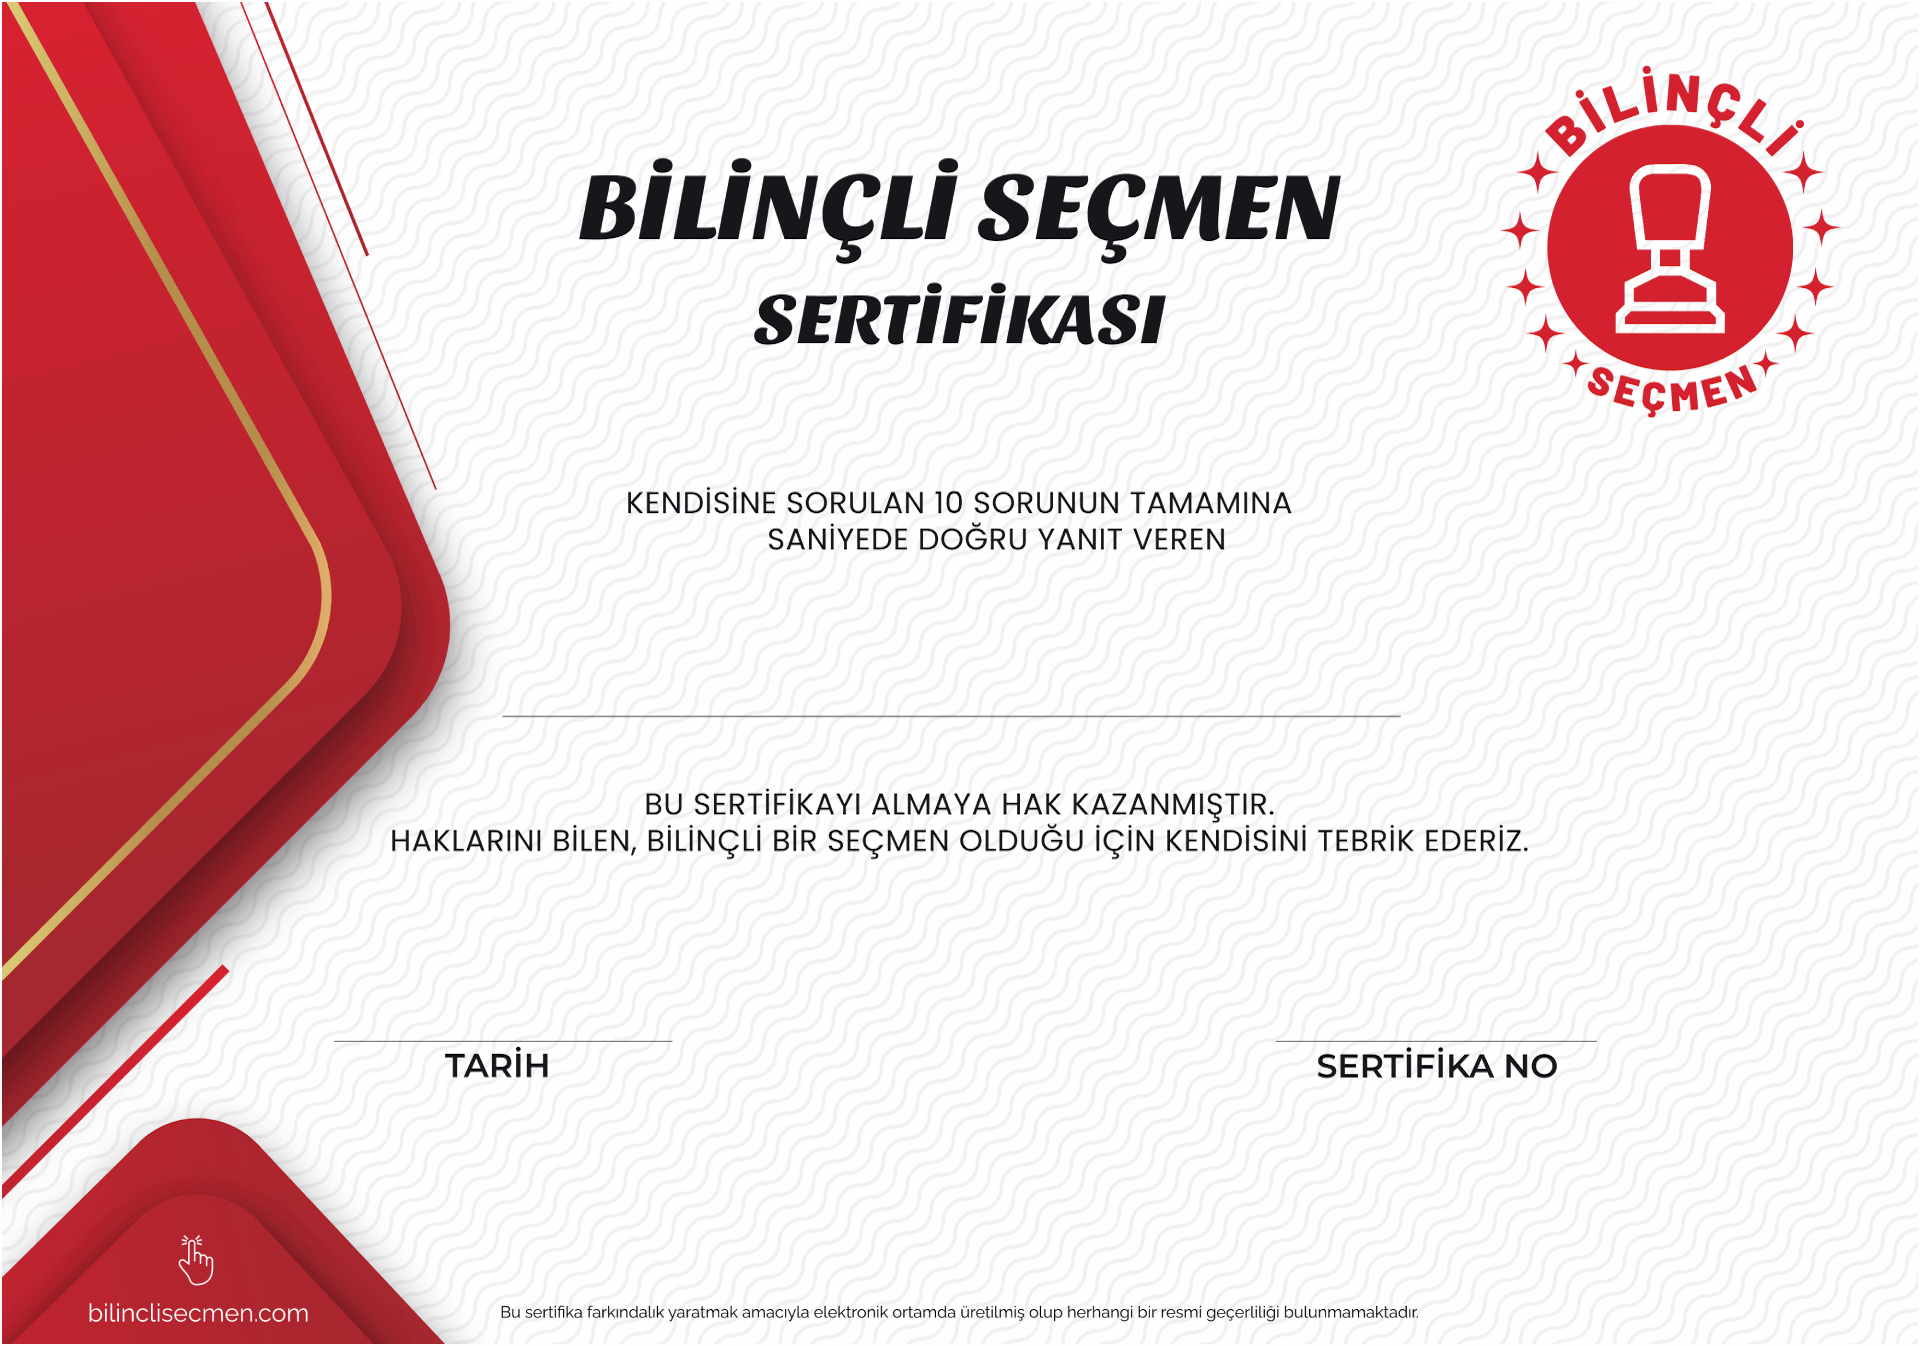
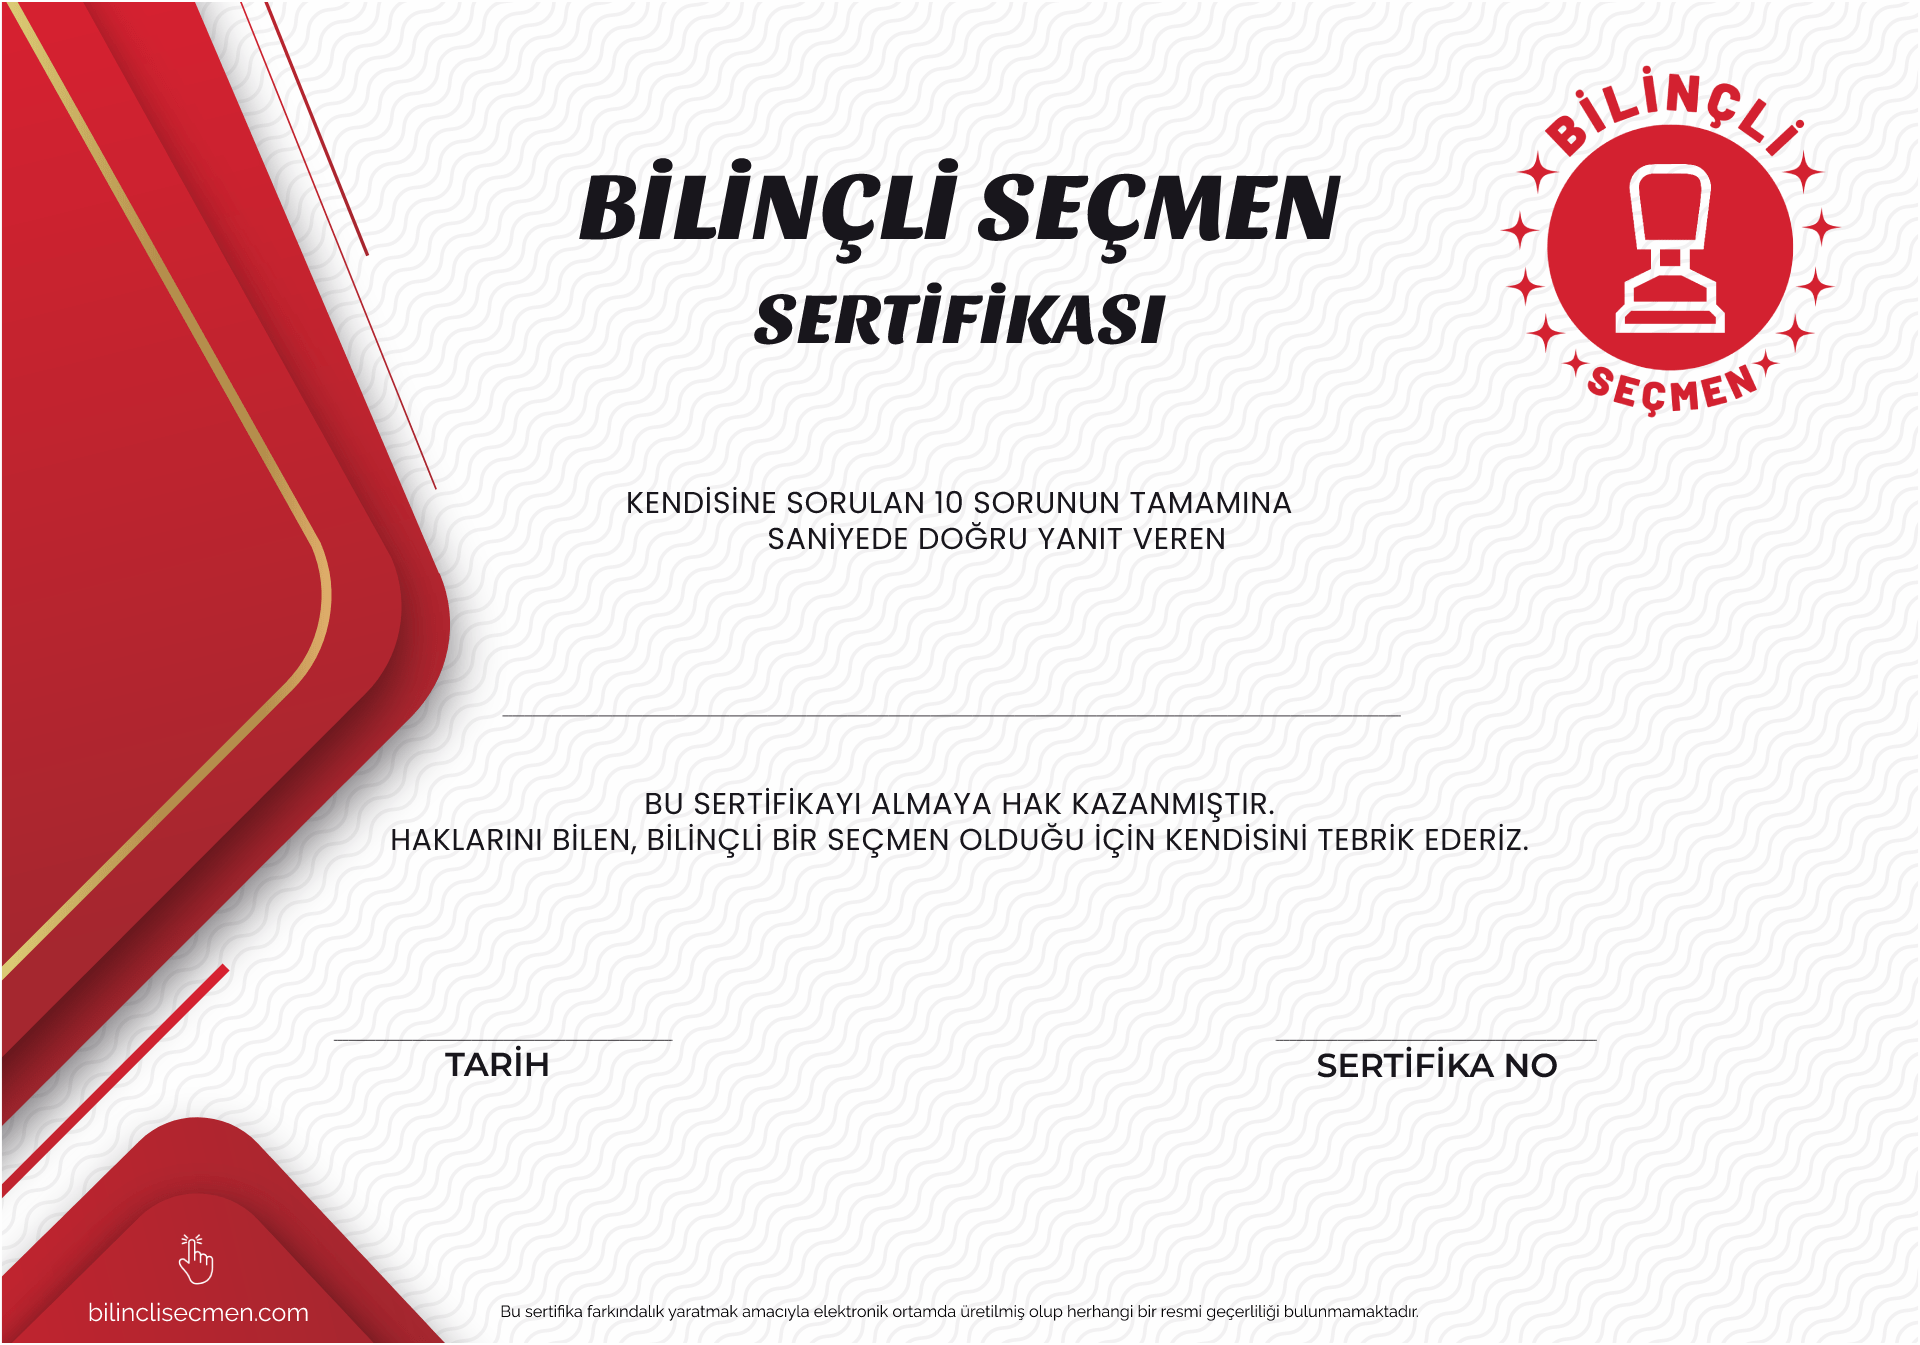
edit name text size function

diff --git a/index.html b/index.html
@@ -11,8 +11,8 @@ sezer@iltekin.com
 <head>
     <meta charset="UTF-8"/>
     <meta name="viewport" content="width=device-width, initial-scale=1.0"/>
-    <link rel="stylesheet" href="css/style.css?v=26"/>
-    <link rel="icon" href="favicon.png?v=26"/>
+    <link rel="stylesheet" href="css/style.css?v=27"/>
+    <link rel="icon" href="favicon.png?v=27"/>
 
     <!-- Primary Meta Tags -->
     <title>Bilinçli Seçmen</title>
@@ -24,14 +24,14 @@ sezer@iltekin.com
     <meta property="og:url" content="https://bilinclisecmen.com/">
     <meta property="og:title" content="Bilinçli Seçmen">
     <meta property="og:description" content="10 sorunun tamamına 150 saniye içinde doğru cevap vererek Bilinçli Seçmen Sertifikası kazanabileceğiniz web sitesi.">
-    <meta property="og:image" content="https://bilinclisecmen.com/image/meta.png?v=26">
+    <meta property="og:image" content="https://bilinclisecmen.com/image/meta.png?v=27">
     
     <!-- Twitter -->
     <meta property="twitter:card" content="summary_large_image">
     <meta property="twitter:url" content="https://bilinclisecmen.com/">
     <meta property="twitter:title" content="Bilinçli Seçmen">
     <meta property="twitter:description" content="10 sorunun tamamına 150 saniye içinde doğru cevap vererek Bilinçli Seçmen Sertifikası kazanabileceğiniz web sitesi.">
-    <meta property="twitter:image" content="https://bilinclisecmen.com/image/meta.png?v=26">
+    <meta property="twitter:image" content="https://bilinclisecmen.com/image/meta.png?v=27">
 
     <!-- Google tag (gtag.js) -->
     <script async src="https://www.googletagmanager.com/gtag/js?id=G-3X7HNGL1ZB"></script>
@@ -78,7 +78,7 @@ sezer@iltekin.com
     </div>
 </div>
 
-<a title="Bilinçli Seçmen" href="https://bilinclisecmen.com"><img class="logo" src="image/logo.svg?v=26" alt="Bilinçli Seçmen"></a>
+<a title="Bilinçli Seçmen" href="https://bilinclisecmen.com"><img class="logo" src="image/logo.svg?v=27" alt="Bilinçli Seçmen"></a>
 
 <div id="questionInfo">
     <div>SORU</div>
@@ -211,7 +211,7 @@ sezer@iltekin.com
         </div>
     </div>
     <a href="https://iltekin.com" target="_blank">
-        <img src="image/iltekinbrainworks.svg?v=26" alt="iltekin brainworks">
+        <img src="image/iltekinbrainworks.svg?v=27" alt="iltekin brainworks">
     </a>
 </div>
 
@@ -232,8 +232,8 @@ sezer@iltekin.com
 </audio>
 
 <script src="https://ajax.googleapis.com/ajax/libs/webfont/1.6.26/webfont.js"></script>
-<script src="js/data.js?v=26"></script>
-<script src="js/script.js?v=26"></script>
+<script src="js/data.js?v=27"></script>
+<script src="js/script.js?v=27"></script>
 
 </body>
 </html>

diff --git a/hakkinda.html b/hakkinda.html
@@ -13,8 +13,8 @@ sezer@iltekin.com
 <head>
   <meta charset="UTF-8"/>
   <meta name="viewport" content="width=device-width, initial-scale=1.0"/>
-  <link rel="stylesheet" href="css/style.css?v=26"/>
-  <link rel="icon" href="favicon.png?v=26"/>
+  <link rel="stylesheet" href="css/style.css?v=27"/>
+  <link rel="icon" href="favicon.png?v=27"/>
 
   <!-- Primary Meta Tags -->
   <title>Bilinçli Seçmen</title>
@@ -26,14 +26,14 @@ sezer@iltekin.com
   <meta property="og:url" content="https://bilinclisecmen.com/">
   <meta property="og:title" content="Bilinçli Seçmen">
   <meta property="og:description" content="10 sorunun tamamına 150 saniye içinde doğru cevap vererek \"Bilinçli Seçmen Sertifikası\" kazanabileceğiniz web sitesi.">
-  <meta property="og:image" content="https://bilinclisecmen.com/image/meta.png?v=26">
+  <meta property="og:image" content="https://bilinclisecmen.com/image/meta.png?v=27">
 
   <!-- Twitter -->
   <meta property="twitter:card" content="summary_large_image">
   <meta property="twitter:url" content="https://bilinclisecmen.com/">
   <meta property="twitter:title" content="Bilinçli Seçmen">
   <meta property="twitter:description" content="10 sorunun tamamına 150 saniye içinde doğru cevap vererek \"Bilinçli Seçmen Sertifikası\" kazanabileceğiniz web sitesi.">
-  <meta property="twitter:image" content="https://bilinclisecmen.com/image/meta.png?v=26">
+  <meta property="twitter:image" content="https://bilinclisecmen.com/image/meta.png?v=27">
 
 </head>
 <body>
@@ -65,7 +65,7 @@ sezer@iltekin.com
   </div>
 </div>
 
-<a title="Bilinçli Seçmen" href="https://bilinclisecmen.com"><img class="logo" src="image/logo.svg?v=26" alt="Bilinçli Seçmen"></a>
+<a title="Bilinçli Seçmen" href="https://bilinclisecmen.com"><img class="logo" src="image/logo.svg?v=27" alt="Bilinçli Seçmen"></a>
 
 <div id="main_container">
 
@@ -90,7 +90,7 @@ sezer@iltekin.com
 
 <div id="footer">
   <a href="https://iltekin.com/projects/bilincli-secmen/" target="_blank">
-    <img src="image/iltekinbrainworks.svg?v=26" alt="iltekin brainworks">
+    <img src="image/iltekinbrainworks.svg?v=27" alt="iltekin brainworks">
   </a>
 </div>
 

diff --git a/js/script.js b/js/script.js
@@ -9,7 +9,7 @@ const today = formatDate(new Date());
 const downloadBtn = document.getElementById('download-btn');
 
 const image = new Image();
-image.src = 'image/certificate.jpg?v=26';
+image.src = 'image/certificate.png?v=27';
 
 if(CSS.registerProperty !== undefined){
     CSS.registerProperty({
@@ -128,7 +128,7 @@ function drawImage(name, date, certificateNumber, totalTime) {
 
     setTimeout(function() {
 
-        document.getElementById("sertifika_img").src = canvas.toDataURL('image/jpg');
+        document.getElementById("sertifika_img").src = canvas.toDataURL('image/png');
         document.getElementById("certificate-1").style.display = "block";
 
         document.getElementById("loader").style.display = "none";
@@ -139,8 +139,8 @@ function drawImage(name, date, certificateNumber, totalTime) {
 }
 
 downloadBtn.addEventListener('click', function () {
-    downloadBtn.href = canvas.toDataURL('image/jpeg');
-    downloadBtn.download = "sertifika-" + testerName + ".jpg";
+    downloadBtn.href = canvas.toDataURL('image/png');
+    downloadBtn.download = "sertifika-" + testerName + ".png";
 });
 
 function clearLiHighlights(){

diff --git a/css/style.css b/css/style.css
@@ -7,7 +7,7 @@
 
 body {
     background-color: #ffffff;
-    background-image: url("../image/background.jpg?v=26");
+    background-image: url("../image/background.jpg?v=27");
     background-position: top;
     background-size: cover;
     background-repeat: no-repeat;
